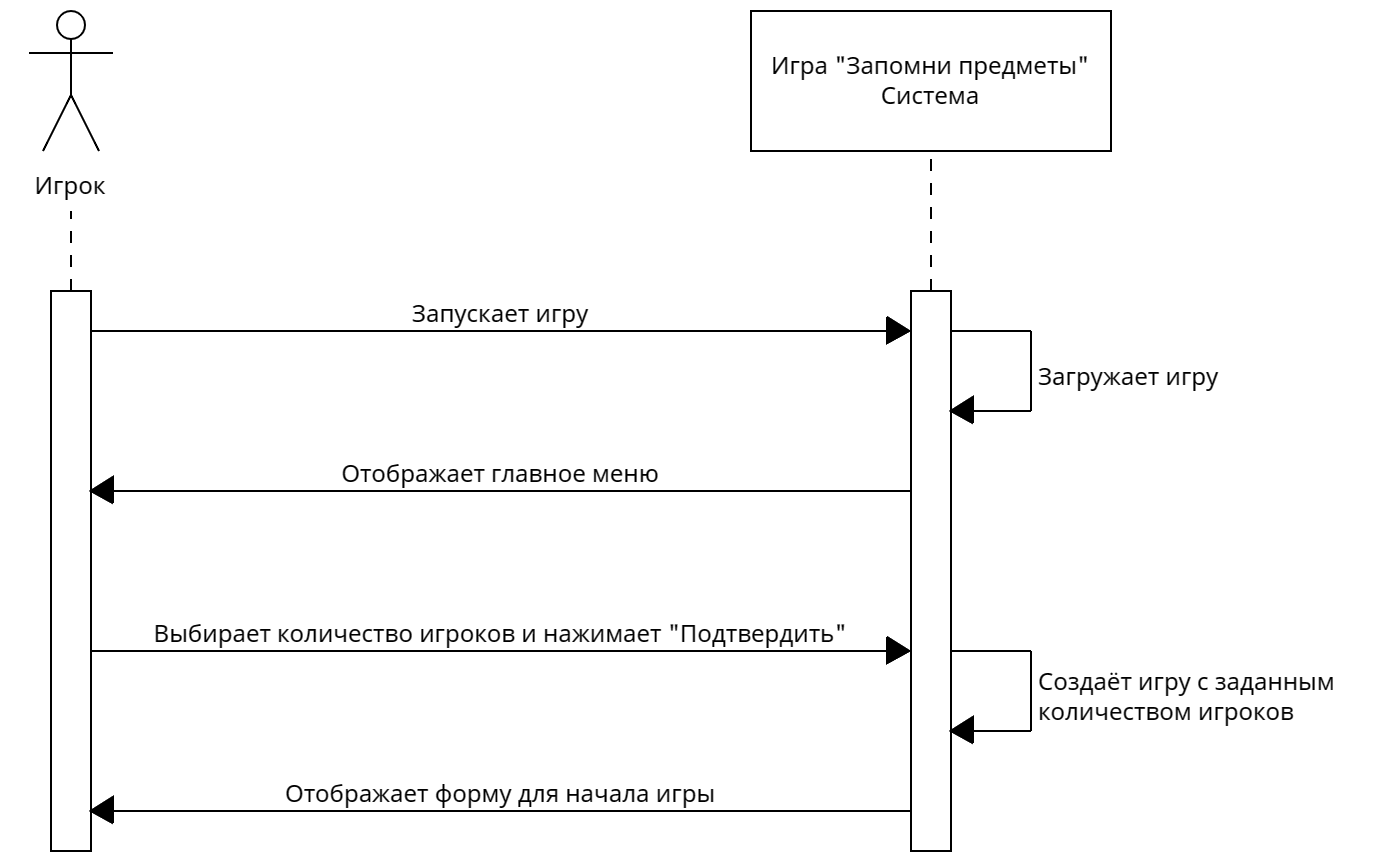
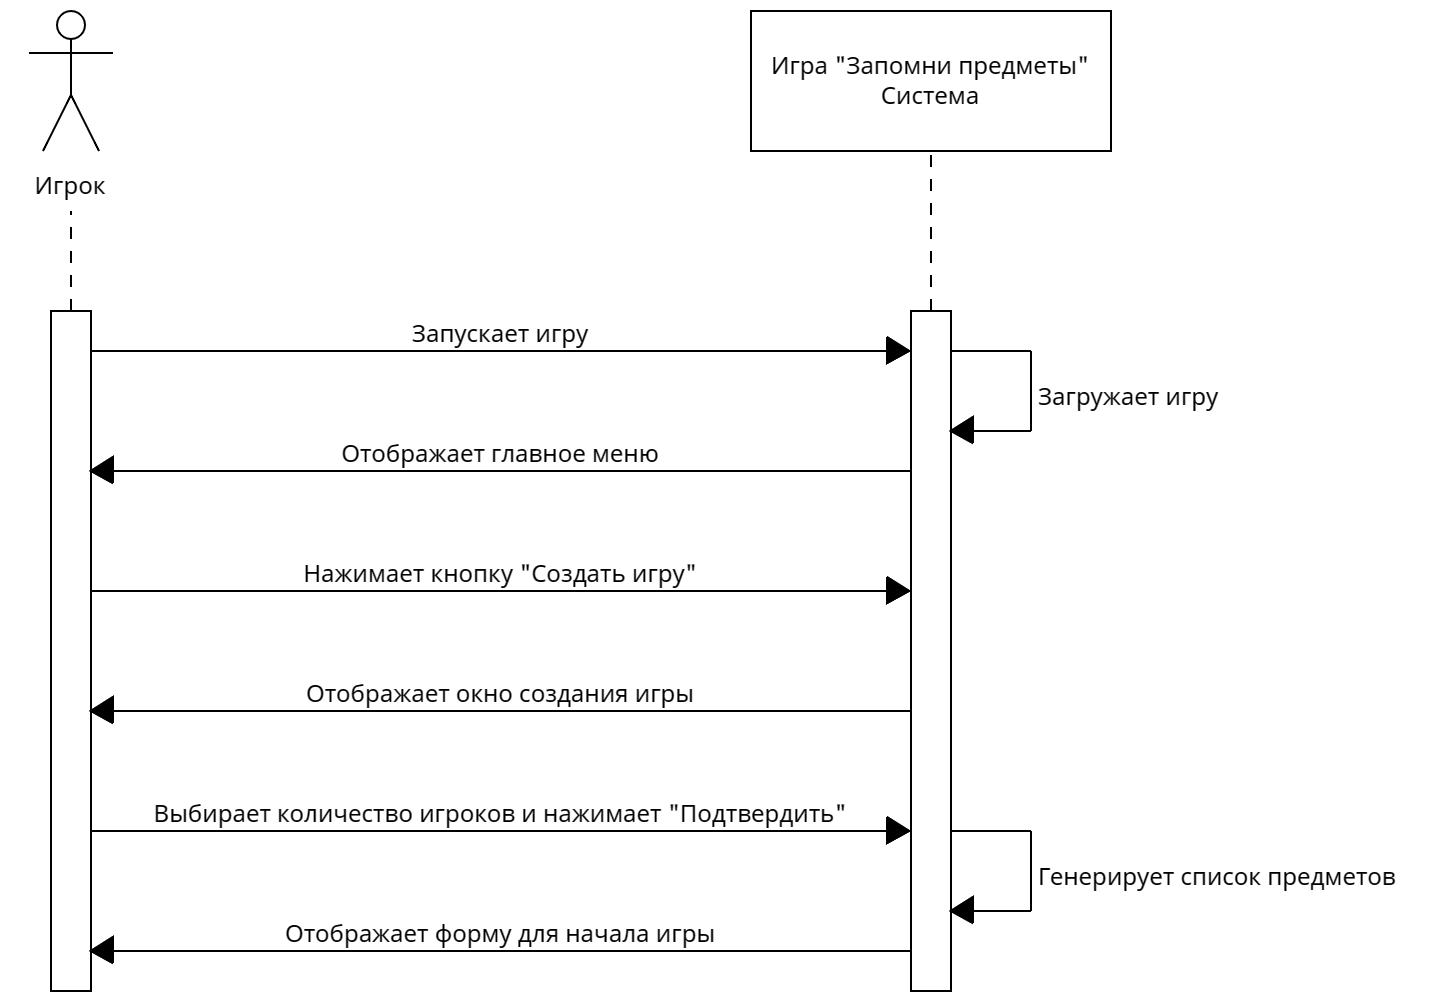
update

diff --git a/lab3/lab3.md b/lab3/lab3.md
@@ -1,6 +1,7 @@
 # Лабораторная работа №3
 ##### 10. Веселая игра «Запомни предметы»
-### Процедент "Создать игру"
+## Диаграммы последовательностей
+### Прецедент "Создать игру"
 ![diag1](lab3_diag1.png)
 
 |Операция|Отображение главного меню|
@@ -21,7 +22,7 @@
 |Предусловие|Нажата кнопка "Подтвердить"|
 |Постусловие|Отображена форма для начала игры|
 
-### Процедент "Начать игру"
+### Прецедент "Начать игру"
 ![diag2](lab3_diag2.png)
 
 |Операция|Отображение предметов|
@@ -33,10 +34,10 @@
 |Операция|Отображение формы для записи названий предметов|
 |-|-|
 |Ссылки|Прецедент "Начать игру"|
-|Предусловие|Нажата кнопка "Далее"|
+|Предусловие|Истекло время отображения предметов|
 |Постусловие|Отображена форма для записи названий предметов|
 
-### Процедент "Записать названия предметов"
+### Прецедент "Записать названия предметов"
 ![diag3](lab3_diag3.png)
 
 |Операция|Запись названий предметов|
@@ -45,19 +46,13 @@
 |Предусловие|Отображена форма для записи названий предметов|
 |Постусловие|Нажата кнопка "Готово"|
 
-|Операция|Отображение формы с результатами игрока|
-|-|-|
-|Ссылки|Прецедент "Записать названия предметов"|
-|Предусловие|Нажата кнопка "Готово"|
-|Постусловие|Отображена форма с результатами игрока|
-
 |Операция|Отображение формы с рейтинговой таблицей|
 |-|-|
 |Ссылки|Прецедент "Записать названия предметов"|
 |Предусловие|Всеми игроками нажата кнопка "Готово"|
 |Постусловие|Отображена форма с рейтинговой таблицей|
 
-### Процедент "Выйти из игры"
+### Прецедент "Выйти из игры"
 ![diag4](lab3_diag4.png)
 
 |Операция|Выход из игры|

diff --git a/lab2/lab2.md b/lab2/lab2.md
@@ -1,12 +1,12 @@
 # Лабораторная работа №2
 ##### 10. Веселая игра «Запомни предметы»
-### Диаграмма классов
-![use-case](lab2_diag.png)
+## Диаграмма классов
+![class_diagram](lab2_diag.png)
 #### Игрок - Игра
 Пользователь создаёт игру и указывает количество игроков. Номер игры генерируется автоматически.
 В одной игре может участвовать несколько игроков.
 #### Игра - Предмет
-Игра содержит в себе список из случайных предметов, которые отображаются игрокам в начале игры, когда идёт время для запоминания, и в конце, на экране результатов.
+Игра содержит в себе список из случайных предметов, которые отображаются игрокам в начале игры, когда идёт время для запоминания.
 В одной игре содержится несколько предметов.
 #### Игрок - Лист
 Игрок записывает на листе названия тех предметов, которые запомнил, и передаёт их системе. Каждый игрок заполняет только один лист.
